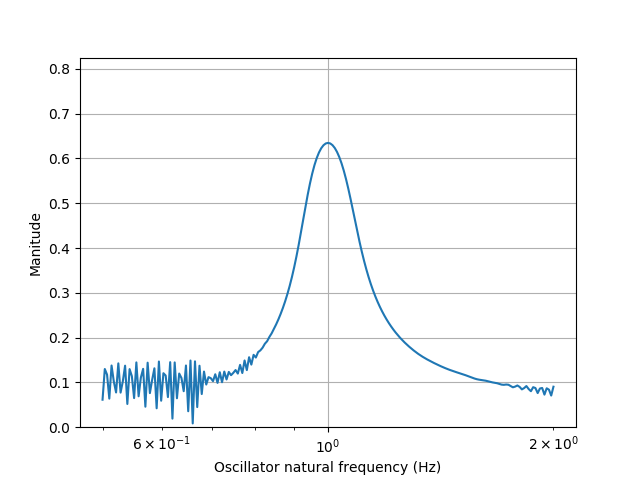
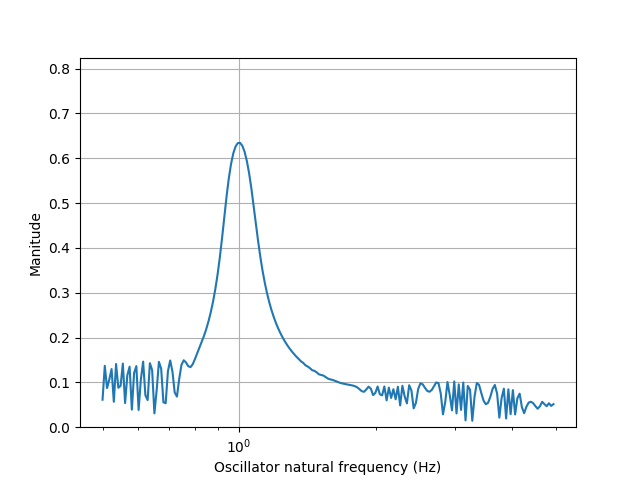
updates tfgrfnn to process multiple inputs at once

diff --git a/tfgrfnn/ode_functions.py b/tfgrfnn/ode_functions.py
@@ -6,25 +6,25 @@ def xdot_ydot(t, xt_yt, connmats_state, connections, sources_state, alpha=None, 
 
     omega = tf.constant(2*np.pi, dtype=tf.float32)
 
-    xt, yt = tf.split(xt_yt, 2, axis=0)
-    minusyt_plusxt = tf.concat([tf.scalar_mul(-1,yt), xt], axis=0)
+    xt, yt = tf.split(xt_yt, 2, axis=1)
+    minusyt_plusxt = tf.concat([tf.multiply(-1.0,yt), xt], axis=1)
 
     x2tplusy2t = tf.add(tf.pow(xt, 2),
                         tf.pow(yt, 2))
     x2tplusy2t_x2tplusy2t = tf.concat([x2tplusy2t, 
-                                x2tplusy2t], axis=0)
+                                x2tplusy2t], axis=1)
     x2tplusy2tsquared_x2tplusy2tsquared = tf.pow(x2tplusy2t_x2tplusy2t, 2)
 
-    xtnew_ytnew = tf.add_n([tf.scalar_mul(alpha, xt_yt),
-                            tf.scalar_mul(omega, minusyt_plusxt),
-                            tf.scalar_mul(beta1, tf.multiply(xt_yt, x2tplusy2t_x2tplusy2t)),
+    xtnew_ytnew = tf.add_n([tf.multiply(alpha, xt_yt),
+                            tf.multiply(omega, minusyt_plusxt),
+                            tf.multiply(beta1, tf.multiply(xt_yt, x2tplusy2t_x2tplusy2t)),
                             tf.divide(
-                                tf.scalar_mul(tf.multiply(epsilon, beta2), 
+                                tf.multiply(tf.multiply(epsilon, beta2), 
                                     tf.multiply(xt_yt, x2tplusy2tsquared_x2tplusy2tsquared)),
                                 tf.subtract(tf.constant(1.0, dtype=tf.float32), 
-                                    tf.scalar_mul(epsilon, x2tplusy2t_x2tplusy2t)))])
+                                    tf.multiply(epsilon, x2tplusy2t_x2tplusy2t)))])
 
-    csrt_csit = tf.add_n([tf.scalar_mul(connections[iconn].learnparams['weight'], compute_input(connmat_state, 
+    csrt_csit = tf.add_n([tf.multiply(connections[iconn].learnparams['weight'], compute_input(connmat_state, 
                             sources_state[connections[iconn].sourceintid], 
                             connections[iconn].learnparams['learntypeint']))
                         for iconn, connmat_state in enumerate(connmats_state)]) if connmats_state else 0
@@ -38,23 +38,23 @@ def compute_input(connmat_state, source_state, learntypeint):
 
     def compute_input_nolearning(srt_sit=source_state, crt_cit=connmat_state):
 
-        srt, sit = tf.split(srt_sit, 2, axis=0)
-        crt, cit = tf.split(crt_cit, 2, axis=0)
-        csrt = tf.matmul(crt, srt)
-        csit = tf.matmul(cit, sit)
+        srt, sit = tf.split(srt_sit, 2, axis=1)
+        crt, cit = tf.split(crt_cit, 2, axis=1)
+        csrt = tf.matmul(srt, crt)
+        csit = tf.matmul(sit, cit)
 
-        csrt_csit = tf.squeeze(tf.concat([csrt, csit], axis=0))
+        csrt_csit = tf.concat([csrt, csit], axis=1)
 
         return csrt_csit 
 
     def compute_input_1freq(srt_sit=source_state, crt_cit=connmat_state):
 
-        srt, sit = tf.split(srt_sit, 2, axis=0)
-        crt, cit = tf.split(crt_cit, 2, axis=0)
-        csrt = tf.matmul(crt, srt)
-        csit = tf.matmul(cit, sit)
+        srt, sit = tf.split(srt_sit, 2, axis=1)
+        crt, cit = tf.split(crt_cit, 2, axis=1)
+        csrt = tf.matmul(srt, crt)
+        csit = tf.matmul(sit, cit)
 
-        csrt_csit = tf.squeeze(tf.concat([csrt, csit], axis=0))
+        csrt_csit = tf.concat([csrt, csit], axis=1)
 
         return csrt_csit 
 
@@ -69,7 +69,7 @@ def crdot_cidot(t, xst_yst, crt_cit, xtt_ytt, learnparams):
     def nolearning(t=t, xst_yst=xst_yst, crt_cit=crt_cit, xtt_ytt=xtt_ytt, learnparams=learnparams):
         
         return tf.constant(0, dtype=tf.float32, shape=crt_cit.shape)
-
+    '''
     def learn_1freq(t=t, xst_yst=xst_yst, crt_cit=crt_cit, xtt_ytt=xtt_ytt, learnparams=learnparams):
         
         lambda_ = learnparams['lambda_']
@@ -90,13 +90,13 @@ def crdot_cidot(t, xst_yst, crt_cit, xtt_ytt, learnparams):
                                     cr2tplusci2t], axis=0)
         cr2tplusci2tsquared_cr2tplusci2tsquared = tf.pow(cr2tplusci2t_cr2tplusci2t, 2)
 
-        dcrdt_dcidt = tf.add_n([tf.scalar_mul(lambda_, crt_cit),
-                            tf.scalar_mul(mu1, tf.multiply(crt_cit, cr2tplusci2t_cr2tplusci2t)),
-                            tf.divide(tf.scalar_mul(tf.multiply(epsilon, mu2), 
+        dcrdt_dcidt = tf.add_n([tf.multiply(lambda_, crt_cit),
+                            tf.multiply(mu1, tf.multiply(crt_cit, cr2tplusci2t_cr2tplusci2t)),
+                            tf.divide(tf.multiply(tf.multiply(epsilon, mu2), 
                                         tf.multiply(crt_cit, cr2tplusci2tsquared_cr2tplusci2tsquared)),
                                     tf.subtract(tf.constant(1.0, dtype=tf.float32), 
-                                        tf.scalar_mul(epsilon, cr2tplusci2t_cr2tplusci2t))),
-                            tf.scalar_mul(kappa, tf.concat([tf.add(tf.matmul(tf.expand_dims(xtt,-1), 
+                                        tf.multiply(epsilon, cr2tplusci2t_cr2tplusci2t))),
+                            tf.multiply(kappa, tf.concat([tf.add(tf.matmul(tf.expand_dims(xtt,-1), 
                                                                             tf.expand_dims(xst,0)), 
                                                                 tf.matmul(tf.expand_dims(ytt,-1), 
                                                                             tf.expand_dims(yst,0))),
@@ -110,11 +110,12 @@ def crdot_cidot(t, xst_yst, crt_cit, xtt_ytt, learnparams):
         dcrdt_dcidt = tf.multiply(tf.divide(tf.concat([fmat, fmat], axis=0), 2), dcrdt_dcidt)
 
         return dcrdt_dcidt
+    '''
 
     learntype = learnparams['learntypeint']
 
     dcrdt_dcidt = tf.switch_case(learntype,
-                                    branch_fns={0: nolearning,
-                                                1: learn_1freq})
+                                    branch_fns={0: nolearning})
+                                                #1: learn_1freq})
 
     return dcrdt_dcidt

diff --git a/tfgrfnn/tfgrfnn.py b/tfgrfnn/tfgrfnn.py
@@ -41,10 +41,10 @@ class stimulus():
 
         self.name = name
         self.values = values
-        shape = tf.shape(self.values)
-        self.ndatapoints = shape[0]
-        self.nsamps = shape[1]
-        self.nchannels = shape[2]
+        vshape = tf.shape(self.values)
+        self.ndatapoints = vshape[0]
+        self.nsamps = vshape[1]
+        self.nchannels = vshape[2]
         self.fs = fs
         self.dt = 1.0/self.fs
         self.dur = self.nsamps/self.fs
@@ -220,8 +220,8 @@ class Model():
         layers_state, layers_connmats_state = self.list_layers_state_and_layers_connmats_state()
         layers_states, layers_connmats_states = self.odeRK4(layers_state, layers_connmats_state)
         if self.zfun == xdot_ydot:
-            layers_states, layers_connmats_states = self.concat2complex()
-        self.save_layers_connmats_states()
+            layers_states, layers_connmats_states = self.concat2complex(layers_states, layers_connmats_states)
+        self.save_layers_connmats_states(layers_states, layers_connmats_states)
         self.delete_layer_enumeration()
         return self
     
@@ -232,31 +232,31 @@ class Model():
             for conn in layer.connections:
                 del conn.sourceintid
 
-    def concat2complex(self, layer_states, layers_connmats_states):
-        stim_values_real, stim_values_imag = tf.split(self.stim.values, 2, axis=1)
+    def save_layers_connmats_states(self, layers_states, layers_connmats_states):
+        for ilayer, layer, in enumerate(self.layers):
+            layer.states = tf.transpose(layers_states[ilayer],(1,2,0))
+            for iconn, conn in enumerate(layer.connections):
+                if conn.learnparams['learntypeint'] != 0:
+                    conn.matrixstates = tf.transpose(layers_connmats_state[ilayer][iconn],(1,2,0))
+
+    def concat2complex(self, layers_states, layers_connmats_states):
+        stim_values_real, stim_values_imag = tf.split(self.stim.values, 2, axis=2)
         self.stim.values = tf.complex(stim_values_real, stim_values_imag)
         for ilayer, layer in enumerate(self.layers):
-            layer_initconds_real, layer_initconds_imag = tf.split(layer.initconds, 2, axis=0)
+            layer_initconds_real, layer_initconds_imag = tf.split(tf.squeeze(layer.initconds[0,:]), 2, axis=0)
             layer.initconds = tf.complex(layer_initconds_real, layer_initconds_imag)
-            layer_states_real, layer_states_imag = tf.split(layers_states[ilayer], 2, axis=1)
-            layers_states[ilayer] = tf.squeeze(tf.complex(layer_states_real, layer_states_imag))
+            layer_states_real, layer_states_imag = tf.split(layers_states[ilayer], 2, axis=2)
+            layers_states[ilayer] = tf.complex(layer_states_real, layer_states_imag)
             layer.params['freqs'], _ = tf.split(layer.params['freqs'], 2, axis=0)
             layer.nosc = layer.nosc/2
             for iconn, conn in enumerate(layer.connections):
-                conn_matrixinit_real, conn_matrixinit_imag = tf.split(conn.matrixinit, 2, axis=0)
+                conn_matrixinit_real, conn_matrixinit_imag = tf.split(conn.matrixinit, 2, axis=1)
                 conn.matrixinit = tf.complex(conn_matrixinit_real, conn_matrixinit_imag)
                 if conn.learnparams['learntypeint'] != 0:
                     connmat_states_real, connmat_states_imag = tf.split(layers_connmats_state[ilayer][iconn], 
-                                                                                                    2, axis=1)
+                                                                                                    2, axis=2)
                     layers_connmats_states[ilayer][iconn] = tf.complex(connmat_states_real, connmat_states_imag)
         return layers_states, layers_connmats_states
-
-    def save_layers_connmats_states():
-        for ilayer, layer, in enumerate(self.layers):
-            layer.states = layers_states[ilayer]
-            for iconn, conn in enmerate(layer.connections):
-                if conn.learnparams[''] != 0:
-                    conn.matrixstates = layers_connmats_state[ilayer][iconn]
 
     def list_layers_state_and_layers_connmats_state(self):
         layers_state = [layer.initconds for layer in self.layers]
@@ -267,14 +267,16 @@ class Model():
 
     def complex2concat(self):
         self.stim.values = tf.concat([tf.math.real(self.stim.values), 
-                                      tf.math.imag(self.stim.values)], axis=1)
+                                      tf.math.imag(self.stim.values)], axis=2)
         for layer in self.layers:
             layer.params['freqs'] = tf.concat([layer.params['freqs'], layer.params['freqs']], axis=0)
-            layer.initconds = tf.concat([tf.math.real(layer.initconds), tf.math.imag(layer.initconds)], axis=0)
+            layer.initconds = tf.tile(tf.expand_dims(tf.concat([tf.math.real(layer.initconds), 
+                                                    tf.math.imag(layer.initconds)], axis=0), axis=0),
+                                        tf.constant([self.stim.ndatapoints.numpy(),1], dtype=tf.int32))
             layer.nosc = layer.nosc*2
             for conn in layer.connections:
                 conn.matrixinit = tf.concat([tf.math.real(conn.matrixinit), 
-                                            tf.math.imag(conn.matrixinit)], axis=0)
+                                            tf.math.imag(conn.matrixinit)], axis=1)
 
     def enumerate_layers(self):
         self.stim.intid = 0

diff --git a/tfgrfnn/example1.py b/tfgrfnn/example1.py
@@ -20,7 +20,7 @@ l1 = tg.neurons(name='l1',
 
 s1 = tg.stimulus(name='s1', values=tf.expand_dims(tf.expand_dims(0.25*tf.complex(tf.math.cos(2*np.pi*time), tf.math.sin(2*np.pi*time)),0),2), fs=int(1/dt))
 
-l1 = tg.connect(source=s1, target=l1, matrixinit=tf.constant(1.0+1j*1.0, dtype=tf.complex64, shape=(1,1)))
+l1 = tg.connect(source=s1, target=l1, matrixinit=tf.constant(1.0+1j*1.0, dtype=tf.complex64, shape=(1,nosc)))
 
 GrFNN = tg.Model(name='GrFNN', layers=[l1], stim=s1)
 
@@ -29,8 +29,8 @@ GrFNN = GrFNN.integrate()
 toc = t.time() - tic
 print(toc)
 
-plt.semilogx(GrFNN.layers[0].freqs,np.abs(GrFNN.layers[0].allsteps[-1]))
-plt.ylim([0, 1.3*np.max(np.abs(GrFNN.layers[0].allsteps[-1]))])
+plt.semilogx(GrFNN.layers[0].params['freqs'],np.abs(GrFNN.layers[0].states[0,:,-1]))
+plt.ylim([0, 1.3*np.max(np.abs(GrFNN.layers[0].states[0,:,-1]))])
 plt.grid()
 plt.xlabel('Oscillator natural frequency (Hz)')
 plt.ylabel('Manitude')
